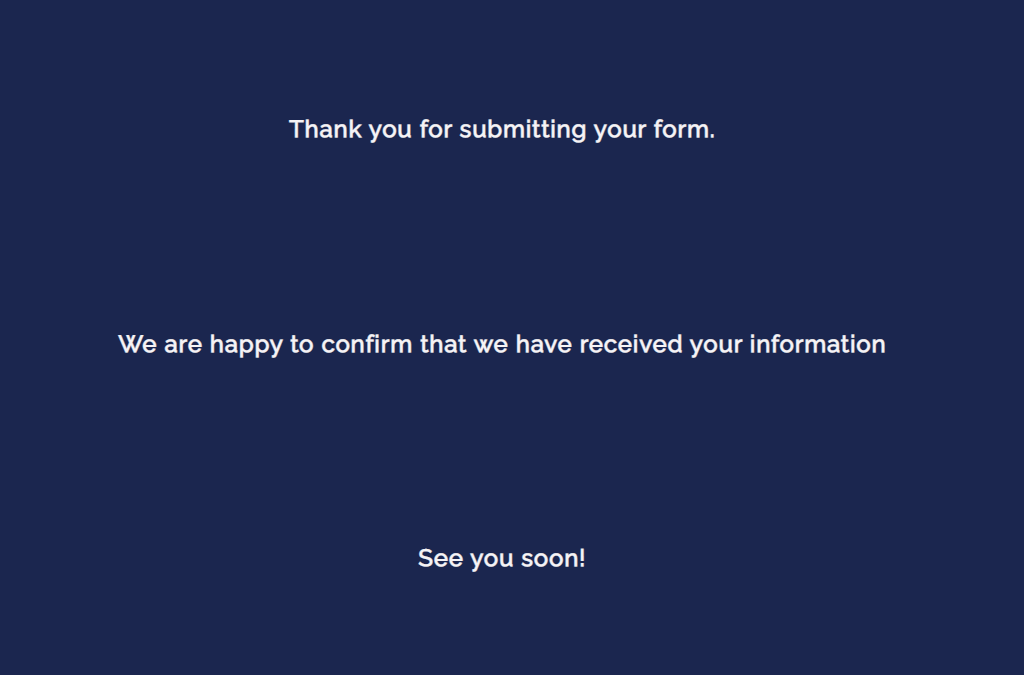
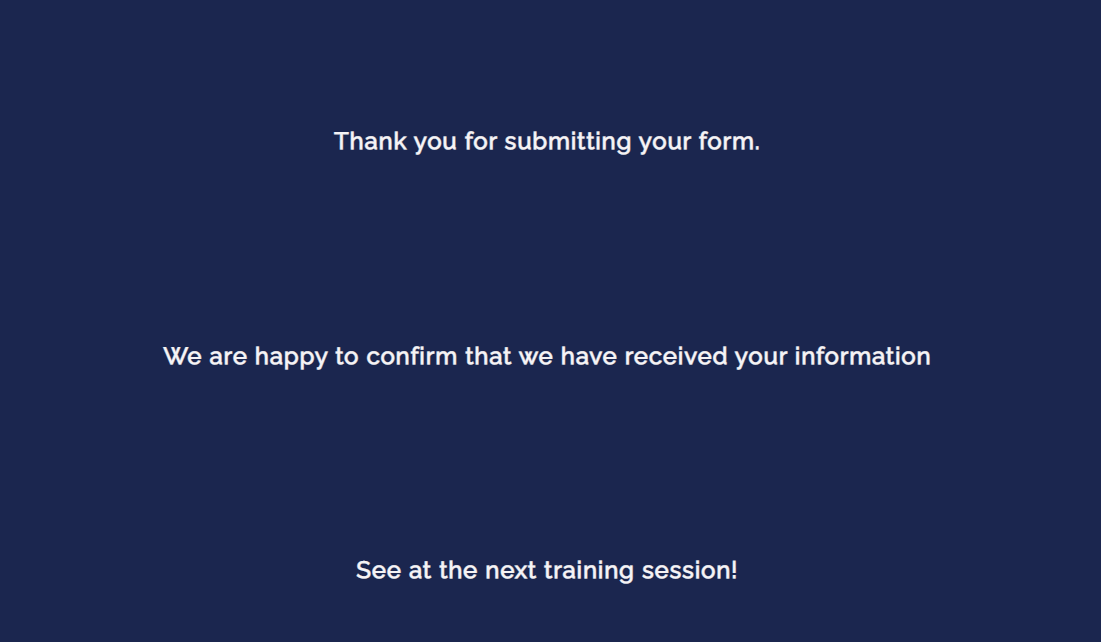
Change photo in the features README for the formsubmit page

diff --git a/form-submit.html b/form-submit.html
@@ -39,7 +39,7 @@
         <br>
         <h3>We are happy to confirm that we have received your information</h3>
         <br>
-        <h3>See at the next training session!</h3>
+        <h3>See you at the next training session!</h3>
       </header>
     </div>
   </section>
